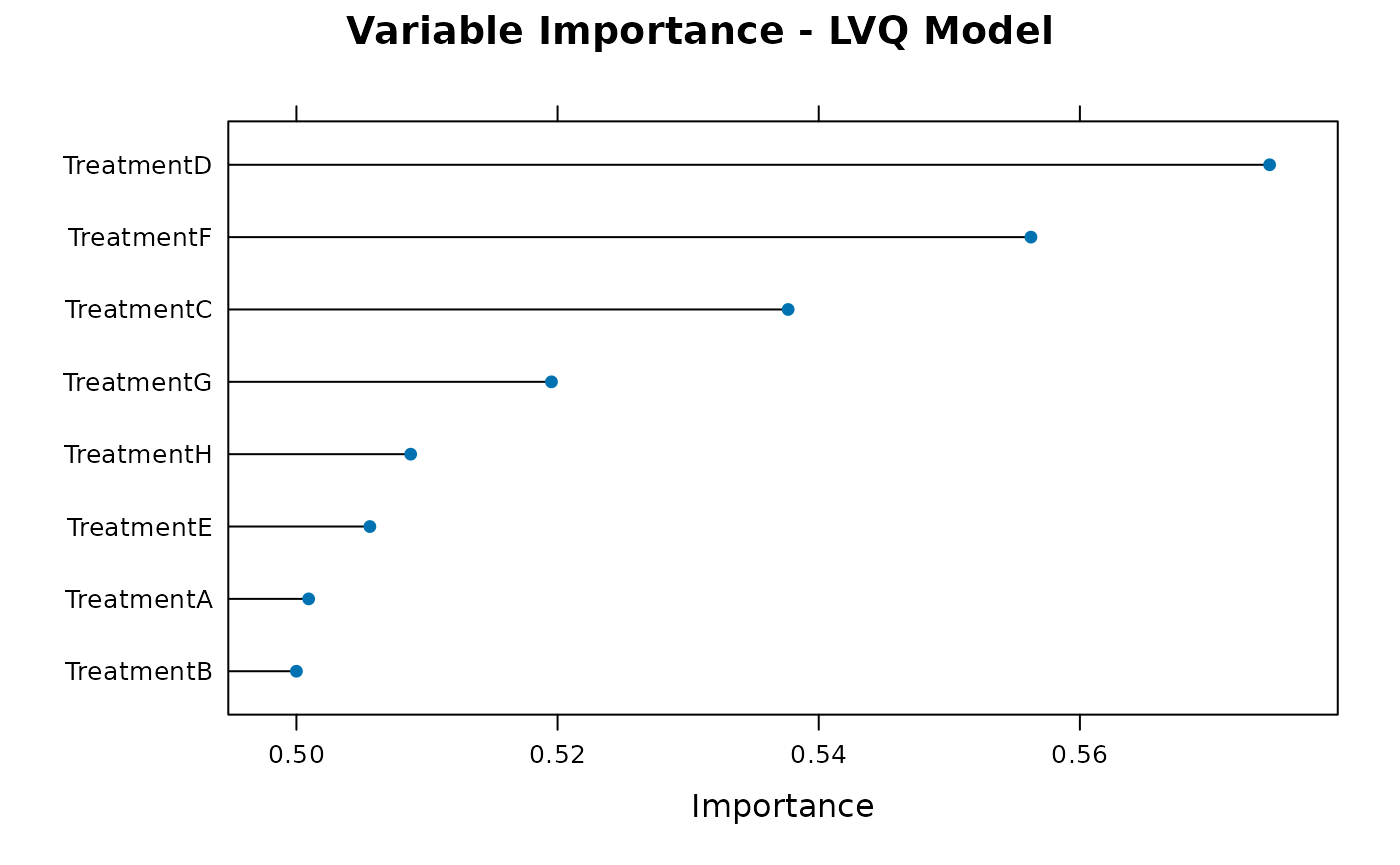
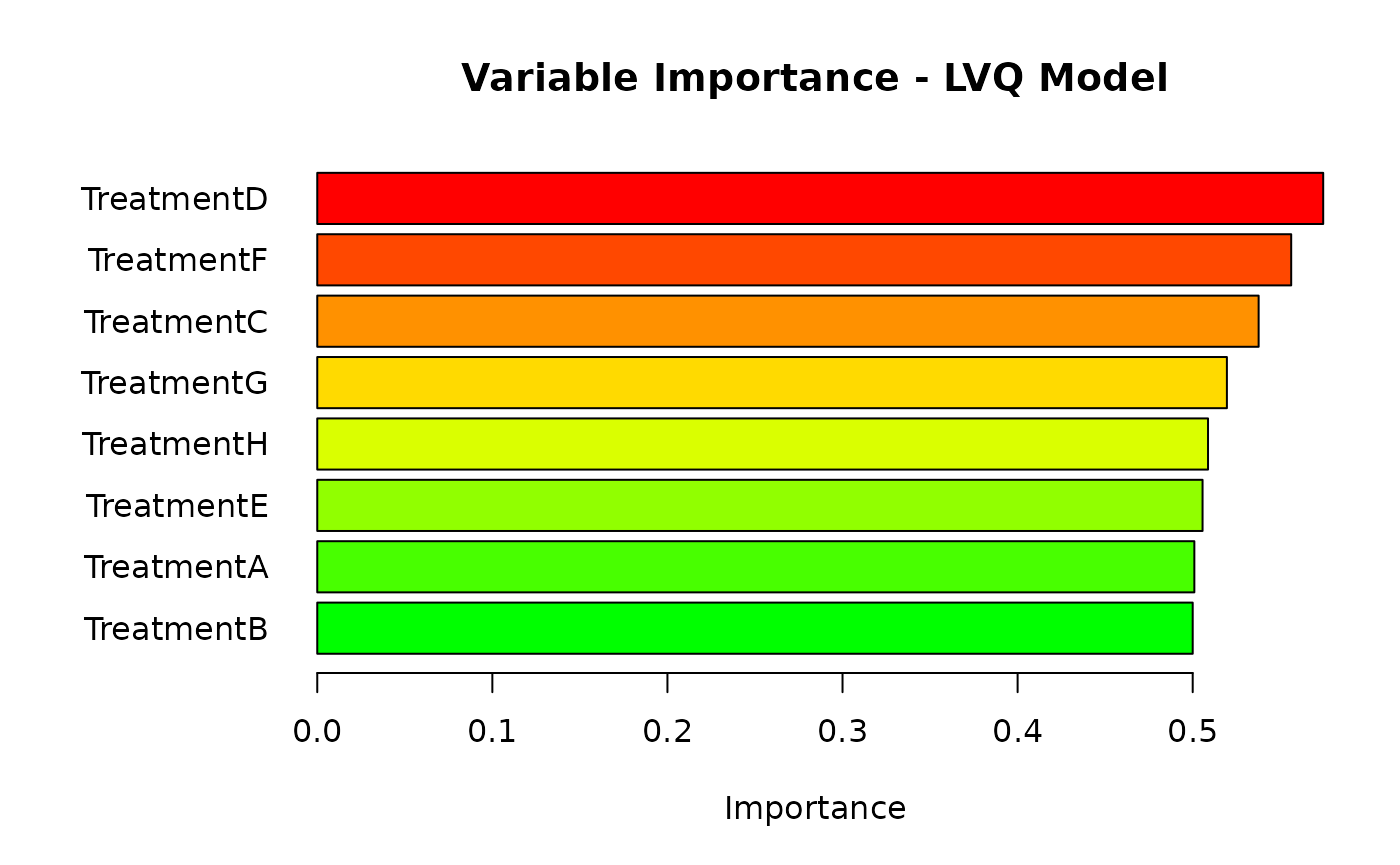
Deploying to gh-pages from @ danymukesha/TCMC@3cfd219eb0b74086adeb7b96f15c44ab54c7434b 🚀

diff --git a/articles/TCMC.html b/articles/TCMC.html
@@ -285,10 +285,10 @@ manage this data.</p></li>
 <div class="sourceCode" id="cb13"><pre class="downlit sourceCode r">
 <code class="sourceCode R"><span><span class="va">results</span> <span class="op">&lt;-</span> <span class="fu"><a href="../reference/model_comparer.html">model_comparer</a></span><span class="op">(</span>data <span class="op">=</span> <span class="va">data_df</span>, <span class="st">"Outcome"</span>, for_utest <span class="op">=</span> <span class="cn">TRUE</span><span class="op">)</span></span></code></pre></div>
 <div class="sourceCode" id="cb14"><pre class="downlit sourceCode r">
-<code class="sourceCode R"><span><span class="fu"><a href="../reference/plot_importance.html">plot_importance</a></span><span class="op">(</span><span class="va">results</span><span class="op">$</span><span class="va">trained_models</span><span class="op">$</span><span class="va">lvq</span>, <span class="st">"LVQ"</span><span class="op">)</span></span></code></pre></div>
+<code class="sourceCode R"><span><span class="fu"><a href="../reference/plot_importance.html">plot_importance</a></span><span class="op">(</span><span class="va">results</span><span class="op">$</span><span class="va">trained_models</span><span class="op">$</span><span class="va">lvq</span>, <span class="st">"LVQ"</span>, type_plot <span class="op">=</span> <span class="st">"enhanced"</span><span class="op">)</span></span></code></pre></div>
 <p><img src="TCMC_files/figure-html/plot_vis_outcome-1.png" width="700"></p>
 <div class="sourceCode" id="cb15"><pre class="downlit sourceCode r">
-<code class="sourceCode R"><span><span class="fu"><a href="../reference/plot_importance.html">plot_importance</a></span><span class="op">(</span><span class="va">results</span><span class="op">$</span><span class="va">trained_models</span><span class="op">$</span><span class="va">rf</span>, <span class="st">"RF"</span><span class="op">)</span></span></code></pre></div>
+<code class="sourceCode R"><span><span class="fu"><a href="../reference/plot_importance.html">plot_importance</a></span><span class="op">(</span><span class="va">results</span><span class="op">$</span><span class="va">trained_models</span><span class="op">$</span><span class="va">rf</span>, <span class="st">"RF"</span>, type_plot <span class="op">=</span> <span class="st">"basic"</span><span class="op">)</span></span></code></pre></div>
 <p><img src="TCMC_files/figure-html/plot_vis_outcome-2.png" width="700"></p>
 <div class="sourceCode" id="cb16"><pre class="downlit sourceCode r">
 <code class="sourceCode R"><span></span>
@@ -361,9 +361,9 @@ Institute of Diabetes and Digestive and Kidney Diseases.</p>
 (Leisch and Dimitriadou, 2024)</li>
 </ul>
 <p>Date the vignette was generated.</p>
-<pre><code><span><span class="co">#&gt; [1] "2024-11-26 10:26:25 UTC"</span></span></code></pre>
+<pre><code><span><span class="co">#&gt; [1] "2024-11-26 14:36:12 UTC"</span></span></code></pre>
 <p>Wallclock time spent generating the vignette.</p>
-<pre><code><span><span class="co">#&gt; Time difference of 38.402 secs</span></span></code></pre>
+<pre><code><span><span class="co">#&gt; Time difference of 36.704 secs</span></span></code></pre>
 <p><code>R</code> session information.</p>
 <pre><code><span><span class="co">#&gt; <span style="color: #00BBBB; font-weight: bold;">─ Session info ───────────────────────────────────────────────────────────────────────────────────────────────────────</span></span></span>
 <span><span class="co">#&gt;  <span style="color: #555555; font-style: italic;">setting </span> <span style="color: #555555; font-style: italic;">value</span></span></span>

diff --git a/reference/plot_importance.html b/reference/plot_importance.html
@@ -39,7 +39,7 @@
 
     <div class="section level2">
     <h2 id="ref-usage">Usage<a class="anchor" aria-label="anchor" href="#ref-usage"></a></h2>
-    <div class="sourceCode"><pre class="sourceCode r"><code><span><span class="fu">plot_importance</span><span class="op">(</span><span class="va">model</span>, <span class="va">model_name</span><span class="op">)</span></span></code></pre></div>
+    <div class="sourceCode"><pre class="sourceCode r"><code><span><span class="fu">plot_importance</span><span class="op">(</span><span class="va">model</span>, <span class="va">model_name</span>, type_plot <span class="op">=</span> <span class="st">"basic"</span><span class="op">)</span></span></code></pre></div>
     </div>
 
     <div class="section level2">
@@ -52,6 +52,10 @@
 
 <dt id="arg-model-name">model_name<a class="anchor" aria-label="anchor" href="#arg-model-name"></a></dt>
 <dd><p>The name of the model (used for the plot title).</p></dd>
+
+
+<dt id="arg-type-plot">type_plot<a class="anchor" aria-label="anchor" href="#arg-type-plot"></a></dt>
+<dd><p>The type of plot <code>basic</code> or <code>enhanced</code> (default "basic").</p></dd>
 
 </dl></div>
     <div class="section level2">

diff --git a/index.html b/index.html
@@ -179,8 +179,6 @@
 <div class="dev-status">
 <h2 data-toc-skip>Dev status</h2>
 <ul class="list-unstyled">
-<li><a href="https://lifecycle.r-lib.org/articles/stages.html#experimental" class="external-link"><img src="https://img.shields.io/badge/lifecycle-experimental-orange.svg" alt="Lifecycle: experimental"></a></li>
-<li><a href="https://app.codecov.io/gh/danymukesha/TCMC" class="external-link"><img src="https://codecov.io/gh/danymukesha/TCMC/graph/badge.svg" alt="Codecov test coverage"></a></li>
 <li><a href="https://github.com/danymukesha/TCMC/actions/workflows/R-CMD-check.yaml" class="external-link"><img src="https://github.com/danymukesha/TCMC/actions/workflows/R-CMD-check.yaml/badge.svg" alt="R-CMD-check"></a></li>
 </ul>
 </div>
